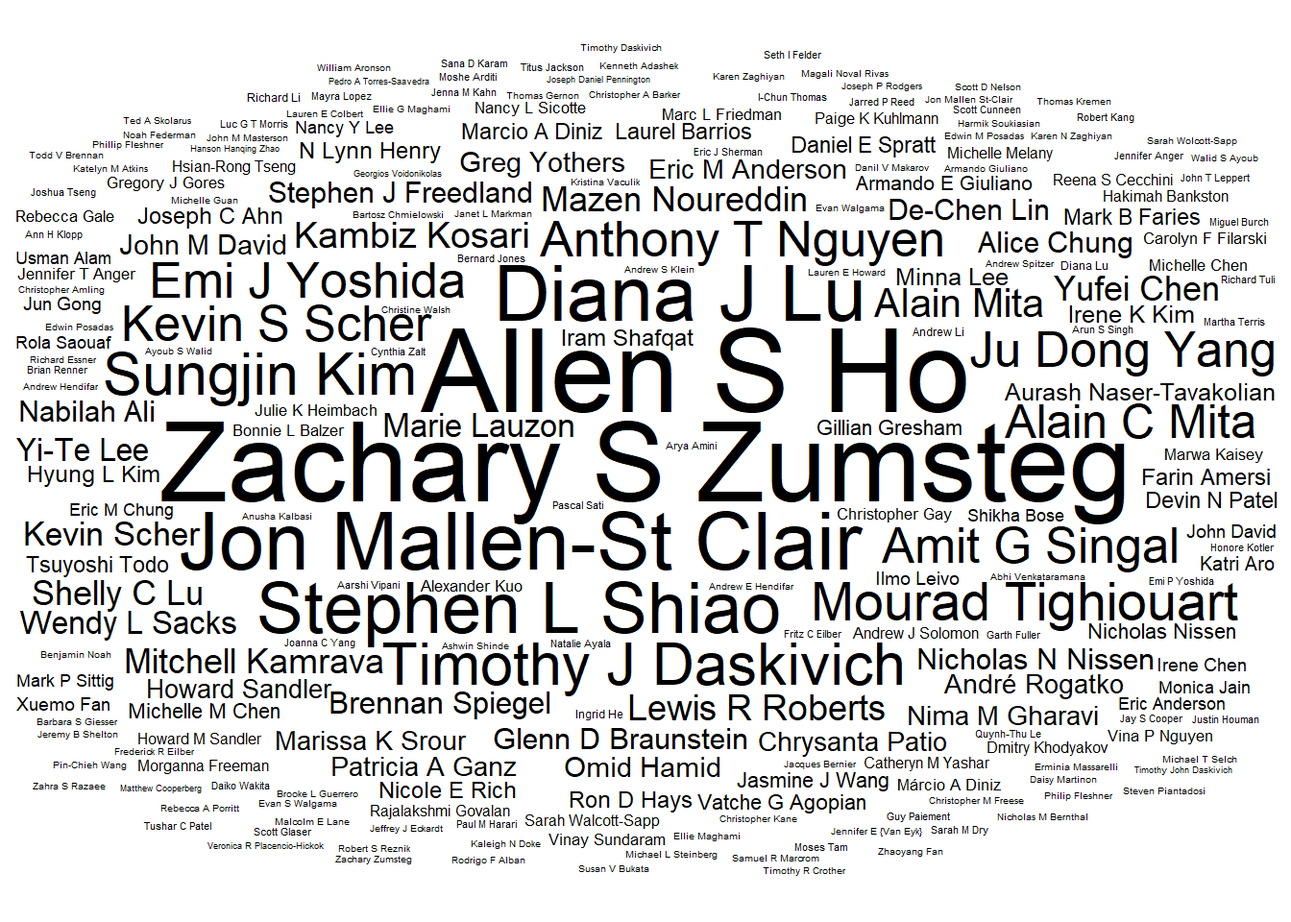
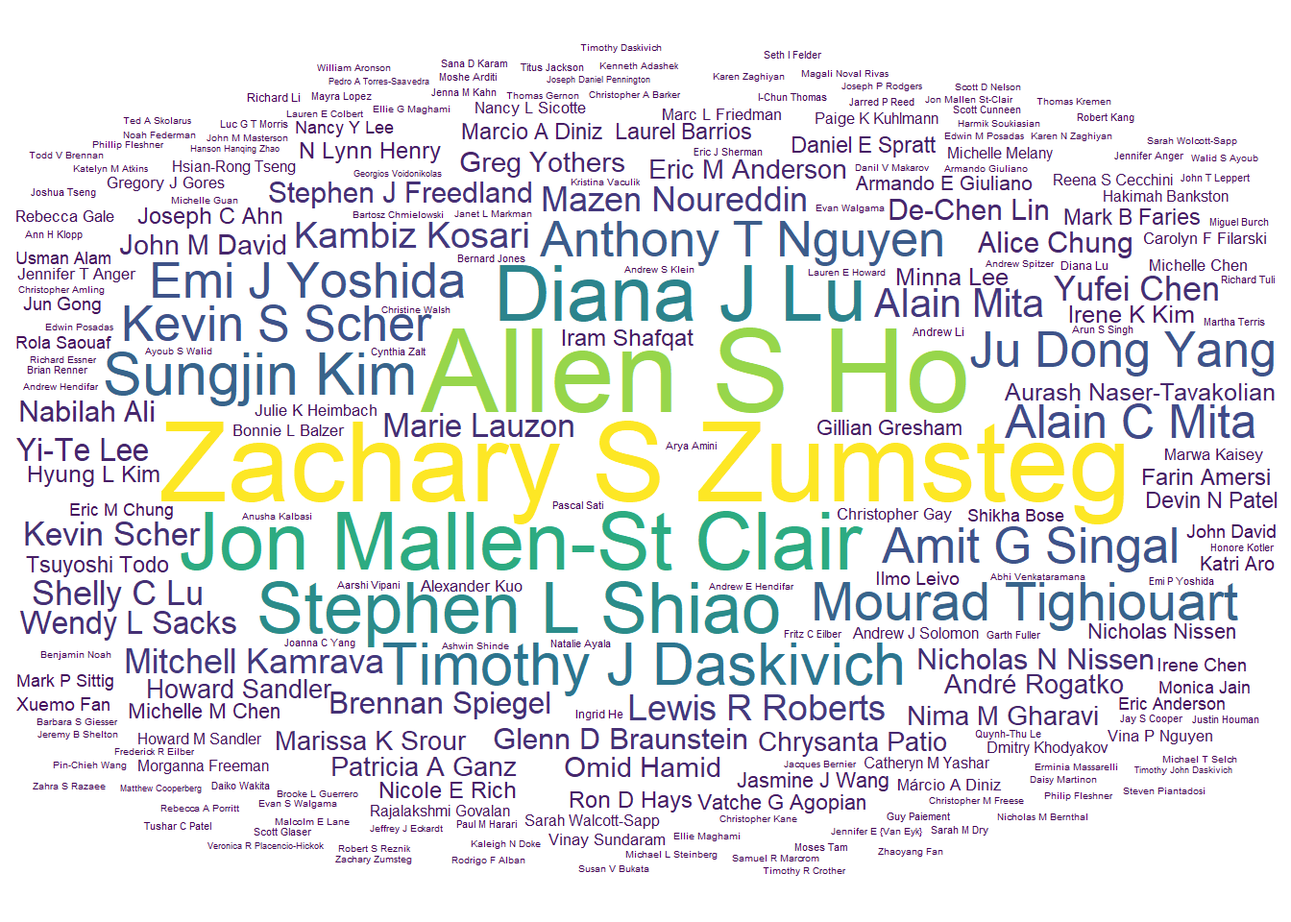
add some colors to the wordcloud blog

Changed region(s): [[0.0, 0.0312, 1.0, 0.9688], [0.5938, 0.0312, 0.625, 0.0625], [0.0312, 0.8438, 0.0625, 0.875]]

diff --git a/docs/publications.html b/docs/publications.html
@@ -158,8 +158,8 @@ ul.task-list li input[type="checkbox"] {
 <div class="cell page-columns page-full">
 <div class="cell-output-display column-screen-inset">
 
-<div class="datatables html-widget html-fill-item-overflow-hidden html-fill-item" id="htmlwidget-a7e6a7d2fcadc39f8a9f" style="width:100%;height:auto;"></div>
-<script type="application/json" data-for="htmlwidget-a7e6a7d2fcadc39f8a9f">{"x":{"style":"bootstrap4","filter":"top","vertical":false,"filterHTML":"<tr>\n  <td><\/td>\n  <td data-type=\"character\" style=\"vertical-align: top;\">\n    <div class=\"form-group has-feedback\" style=\"margin-bottom: auto;\">\n      <input type=\"search\" placeholder=\"All\" class=\"form-control\" style=\"width: 100%;\"/>\n      <span class=\"glyphicon glyphicon-remove-circle form-control-feedback\"><\/span>\n    <\/div>\n  <\/td>\n  <td data-type=\"character\" style=\"vertical-align: top;\">\n    <div class=\"form-group has-feedback\" style=\"margin-bottom: auto;\">\n      <input type=\"search\" placeholder=\"All\" class=\"form-control\" style=\"width: 100%;\"/>\n      <span class=\"glyphicon glyphicon-remove-circle form-control-feedback\"><\/span>\n    <\/div>\n  <\/td>\n  <td style=\"vertical-align: top;\">\n    <div class=\"form-group has-feedback\" style=\"margin-bottom: auto;\">\n      <input type=\"search\" placeholder=\"All\" class=\"form-control\" style=\"width: 100%;\"/>\n      <span class=\"glyphicon glyphicon-remove-circle form-control-feedback\"><\/span>\n    <\/div>\n  <\/td>\n  <td data-type=\"character\" style=\"vertical-align: top;\">\n    <div class=\"form-group has-feedback\" style=\"margin-bottom: auto;\">\n      <input type=\"search\" placeholder=\"All\" class=\"form-control\" style=\"width: 100%;\"/>\n      <span class=\"glyphicon glyphicon-remove-circle form-control-feedback\"><\/span>\n    <\/div>\n  <\/td>\n  <td data-type=\"character\" style=\"vertical-align: top;\">\n    <div class=\"form-group has-feedback\" style=\"margin-bottom: auto;\">\n      <input type=\"search\" placeholder=\"All\" class=\"form-control\" style=\"width: 100%;\"/>\n      <span class=\"glyphicon glyphicon-remove-circle form-control-feedback\"><\/span>\n    <\/div>\n  <\/td>\n  <td data-type=\"character\" style=\"vertical-align: top;\">\n    <div class=\"form-group has-feedback\" style=\"margin-bottom: auto;\">\n      <input type=\"search\" placeholder=\"All\" class=\"form-control\" style=\"width: 100%;\"/>\n      <span class=\"glyphicon glyphicon-remove-circle form-control-feedback\"><\/span>\n    <\/div>\n  <\/td>\n<\/tr>","data":[["1","2","3","4","5","6","7","8","9","10","11","12","13","14","15","16","17","18","19","20","21","22","23","24","25","26","27","28","29","30","31","32","33","34","35","36","37","38","39","40","41","42","43","44","45","46","47","48","49","50","51","52","53","54","55","56","57","58","59","60","61","62","63","64","65","66","67","68"],["April-2023","January-2023","November-2022","October-2022","August-2022","August-2022","July-2022","July-2022","May-2022","May-2022","April-2022","March-2022","January-2022","January-2022","December-2021","December-2021","November-2021","November-2021","November-2021","November-2021","October-2021","September-2021","September-2021","September-2021","September-2021","June-2021","May-2021","May-2021","April-2021","April-2021","April-2021","March-2021","February-2021","February-2021","February-2021","December-2020","November-2020","October-2020","October-2020","October-2020","September-2020","September-2020","August-2020","May-2020","March-2020","January-2020","January-2020","December-2019","November-2019","October-2019","October-2019","October-2019","September-2019","August-2019","June-2019","May-2019","April-2019","March-2019","February-2019","December-2018","November-2018","October-2018","August-2018","June-2018","May-2018","February-2018","December-2017","October-2017"],["The Laryngoscope","Prostate cancer and prostatic diseases","NPJ breast cancer","Cancer","The Laryngoscope","The Journal of urology","International journal of radiation oncology, biology, physics","Journal of the National Cancer Institute","Gynecologic oncology","Clinical gastroenterology and hepatology : the official clinical practice journal of the American Gastroenterological Association","Urologic oncology","The Journal of urology","JAMA surgery","Hepatology communications","Journal of clinical oncology : official journal of the American Society of Clinical Oncology","Urologic oncology","BMC medical research methodology","JAMA surgery","Hepatology (Baltimore, Md.)","Journal of the National Cancer Institute","Thyroid : official journal of the American Thyroid Association","Liver cancer","Head &amp; neck","Hepatology (Baltimore, Md.)","Prostate cancer and prostatic diseases","JAMA network open","Cancer","Surgery","Journal of nuclear medicine : official publication, Society of Nuclear Medicine","The breast journal","Head &amp; neck","Annals of surgical oncology","Multiple sclerosis and related disorders","Journal of the American Academy of Dermatology","Journal of the American Academy of Dermatology","Journal of the National Cancer Institute","Oral oncology","The American surgeon","Journal of medical Internet research","JAMA oncology","JAMA network open","Journal of the National Comprehensive Cancer Network : JNCCN","Journal of surgical oncology","JAMA oncology","Nature communications","Clinical otolaryngology : official journal of ENT-UK ; official journal of Netherlands Society for Oto-Rhino-Laryngology &amp; Cervico-Facial Surgery","Cancer","Oral oncology","European urology oncology","Thyroid : official journal of the American Thyroid Association","Annals of surgical oncology","Annals of surgical oncology","The Journal of urology","Brachytherapy","Otolaryngology--head and neck surgery : official journal of American Academy of Otolaryngology-Head and Neck Surgery","Multiple sclerosis and related disorders","Advances in radiation oncology","International journal of radiation oncology, biology, physics","JAMA network open","American journal of clinical oncology","European journal of cancer (Oxford, England : 1990)","Diseases of the colon and rectum","Cancer","Head &amp; neck","Journal of medical Internet research","International journal of radiation oncology, biology, physics","Cancer","Cancer"],[["<a href=https://doi.org/10.1002/lary.30481>In Response to Predicting Pathologic Lymph Node Positivity in cN0 Pharynx and Larynx Cancers<\/a>"],["<a href=https://doi.org/10.1038/s41391-022-00635-1>Concurrent prognostic utility of lymph node count and lymph node density for men with pathological node-positive prostate cancer<\/a>"],["<a href=https://doi.org/10.1038/s41523-022-00489-9>Toxicity Index, patient-reported outcomes, and persistence of breast cancer chemotherapy-associated side effects in NRG Oncology/NSABP B-30<\/a>"],["<a href=https://doi.org/10.1002/cncr.34436>Disparities in curative treatments and outcomes for early stage intrahepatic cholangiocarcinoma in the United States<\/a>"],["<a href=https://doi.org/10.1002/lary.30358>Predicting Pathologic Lymph Node Positivity in cN0 Pharynx and Larynx Cancers<\/a>"],["<a href=https://doi.org/10.1097/JU.0000000000002675>Variation in Communication of Competing Risks of Mortality in Prostate Cancer Treatment Consultations<\/a>"],["<a href=https://doi.org/10.1016/j.ijrobp.2022.03.033>Nodal Metastasis Count and Oncologic Outcomes in Head and Neck Cancer: A Secondary Analysis of NRG/RTOG 9501, NRG/RTOG 0234, and EORTC 22931<\/a>"],["<a href=https://doi.org/10.1093/jnci/djac059>Quantitative Nodal Burden and Mortality Across Solid Cancers<\/a>"],["<a href=https://doi.org/10.1016/j.ygyno.2022.01.016>Pathologic primary tumor factors associated with risk of lymph node involvement in patients with non-endometrioid endometrial cancer<\/a>"],["<a href=https://doi.org/10.1016/j.cgh.2021.08.011>Decreasing Trend of Serum α-Fetoprotein Level in Hepatocellular Carcinoma<\/a>"],["<a href=https://doi.org/10.1016/j.urolonc.2021.12.016>Predictors of disparity between targeted and in-zone systematic cores during transrectal MR/US-fusion prostate biopsy<\/a>"],["<a href=https://doi.org/10.1097/JU.0000000000002256>Development and Validation of an Improved Pathological Nodal Staging System in Men with Prostate Cancer<\/a>"],["<a href=https://doi.org/10.1001/jamasurg.2021.5803>Patient Preferences for Communication of Life Expectancy in Prostate Cancer Treatment Consultations<\/a>"],["<a href=https://doi.org/10.1002/hep4.1795>Therapeutic Underuse and Delay in Hepatocellular Carcinoma: Prevalence, Associated Factors, and Clinical Impact<\/a>"],["<a href=https://doi.org/10.1200/JCO.21.00910>Toxicity Index, Patient-Reported Outcomes, and Early Discontinuation of Endocrine Therapy for Breast Cancer Risk Reduction in NRG Oncology/NSABP B-35<\/a>"],["<a href=https://doi.org/10.1016/j.urolonc.2021.04.014>Outcomes with brachytherapy based dose escalation for gleason 8 versus 9-10 prostate cancer: An NCDB analysis<\/a>"],["<a href=https://doi.org/10.1186/s12874-021-01368-w>Visualizing adverse events in clinical trials using correspondence analysis with R-package visae<\/a>"],["<a href=https://doi.org/10.1001/jamasurg.2021.4298>Development and Validation of a Modified Pathologic Nodal Classification System for Cutaneous Melanoma<\/a>"],["<a href=https://doi.org/10.1002/hep.32007>Comparison of Clinical Features and Outcomes Between Intrahepatic Cholangiocarcinoma and Hepatocellular Carcinoma in the United States<\/a>"],["<a href=https://doi.org/10.1093/jnci/djab079>The Mortality and Overall Survival Trends of Primary Liver Cancer in the United States<\/a>"],["<a href=https://doi.org/10.1089/thy.2021.0131>Predictive Impact of Metastatic Lymph Node Burden on Distant Metastasis Across Papillary Thyroid Cancer Variants<\/a>"],["<a href=https://doi.org/10.1159/000515554>Comparison of Surgical Resection and Systemic Treatment for Hepatocellular Carcinoma with Vascular Invasion: National Cancer Database Analysis<\/a>"],["<a href=https://doi.org/10.1002/hed.26740>Factors predictive of 90-day mortality after surgical resection for oral cavity cancer: Development of a recursive partitioning analysis for risk stratification<\/a>"],["<a href=https://doi.org/10.1002/hep.31811>State-Level HCC Incidence and Association With Obesity and Physical Activity in the United States<\/a>"],["<a href=https://doi.org/10.1038/s41391-021-00330-7>Patient- and tumor-level risk factors for MRI-invisible prostate cancer<\/a>"],["<a href=https://doi.org/10.1001/jamanetworkopen.2021.12214>Time Trends in Use of Radical Prostatectomy by Tumor Risk and Life Expectancy in a National Veterans Affairs Cohort<\/a>"],["<a href=https://doi.org/10.1002/cncr.33414>Nodal staging convergence for HPV- and HPV+ oropharyngeal carcinoma<\/a>"],["<a href=https://doi.org/10.1016/j.surg.2020.11.023>Incidental parathyroidectomy in thyroidectomy and central neck dissection<\/a>"],["<a href=https://doi.org/10.2967/jnumed.121.261954>Transarterial radioembolization versus systemic treatment for hepatocellular carcinoma with macrovascular invasion: Analysis of the US National Cancer Database<\/a>"],["<a href=https://doi.org/10.1111/tbj.14172>Incidental radiologic findings in breast cancer patients who undergo staging prior to neo-adjuvant chemotherapy<\/a>"],["<a href=https://doi.org/10.1002/hed.26566>Variations in the association of grade with survival across the head and neck cancer landscape<\/a>"],["<a href=https://doi.org/10.1245/s10434-020-09023-2>Prognostic Impact of Histologic Grade for Papillary Thyroid Carcinoma<\/a>"],["<a href=https://doi.org/10.1016/j.msard.2020.102671>Preventing multiple sclerosis misdiagnosis using the \"central vein sign\": A real-world study<\/a>"],["<a href=https://doi.org/10.1016/j.jaad.2020.02.034>Improved survival in women versus men with merkel cell carcinoma<\/a>"],["<a href=https://doi.org/10.1016/j.jaad.2019.12.072>Quantitative metastatic lymph node burden and survival in Merkel cell carcinoma<\/a>"],["<a href=https://doi.org/10.1093/jnci/djaa028>Evaluating Treatment Tolerability in Cancer Clinical Trials Using the Toxicity Index<\/a>"],["<a href=https://doi.org/10.1016/j.oraloncology.2020.104882>The role of concomitant chemoradiotherapy in AJCC 7th edition T1-2N1 oropharyngeal carcinoma in the human papillomavirus era<\/a>"],["<a href=https://doi.org/10.1177/0003134820964209>Can Radiologic Tumor Size Following Neoadjuvant Therapy Reliably Guide Tissue Resection in Breast Conserving Surgery in Patients with Invasive Breast Cancer?<\/a>"],["<a href=https://doi.org/10.2196/11258>Correlation of Online Physician Rating Subscores and Association With Overall Satisfaction: Observational Study of 212,933 Providers<\/a>"],["<a href=https://doi.org/10.1001/jamaoncol.2020.3172>Comparison of Survival After Transoral Robotic Surgery vs Nonrobotic Surgery in Patients With Early-Stage Oropharyngeal Squamous Cell Carcinoma<\/a>"],["<a href=https://doi.org/10.1001/jamanetworkopen.2020.15083>Effect of Androgen Deprivation on Long-term Outcomes of Intermediate-Risk Prostate Cancer Stratified as Favorable or Unfavorable: A Secondary Analysis of the RTOG 9408 Randomized Clinical Trial<\/a>"],["<a href=https://doi.org/10.6004/jnccn.2020.7564>Factors Associated With Detection and Survival of T1 Hepatocellular Carcinoma in the United States: National Cancer Database Analysis<\/a>"],["<a href=https://doi.org/10.1002/jso.25931>The association between facility volume and overall survival in patients with Merkel cell carcinoma<\/a>"],["<a href=https://doi.org/10.1001/jamaoncol.2019.6851>Incidence and Mortality Risk Spectrum Across Aggressive Variants of Papillary Thyroid Carcinoma<\/a>"],["<a href=https://doi.org/10.1038/s41467-020-15397-4>Loss of testosterone impairs anti-tumor neutrophil function<\/a>"],["<a href=https://doi.org/10.1111/coa.13467>Impact of insurance on survival in patients < 65 with head & neck cancer treated with radiotherapy<\/a>"],["<a href=https://doi.org/10.1002/cncr.32501>Stage I HPV-positive oropharyngeal cancer: Should all patients receive similar treatments?<\/a>"],["<a href=https://doi.org/10.1016/j.oraloncology.2019.104472>Survival outcomes with concomitant chemoradiotherapy in older adults with oropharyngeal carcinoma in an era of increasing human papillomavirus (HPV) prevalence<\/a>"],["<a href=https://doi.org/10.1016/j.euo.2018.12.012>Development and Validation of an Improved Pathological Nodal Staging System for Urothelial Carcinoma of the Bladder<\/a>"],["<a href=https://doi.org/10.1089/thy.2019.0060>Mortality Risk of Nonoperative Papillary Thyroid Carcinoma: A Corollary for Active Surveillance<\/a>"],["<a href=https://doi.org/10.1245/s10434-019-07543-0>Overuse of Preoperative Staging of Patients Undergoing Neoadjuvant Chemotherapy for Breast Cancer<\/a>"],["<a href=https://doi.org/10.1245/s10434-019-07540-3>Patterns in the Use of Axillary Operations for Patients with Node-Positive Breast Cancer After Neoadjuvant Chemotherapy: A National Cancer Database (NCDB) Analysis<\/a>"],["<a href=https://doi.org/10.1097/JU.0000000000000287>External Validation of the Prostate Cancer Specific Comorbidity Index: A Claims Based Tool for the Prediction of Life Expectancy in Men with Prostate Cancer<\/a>"],["<a href=https://doi.org/10.1016/j.brachy.2019.07.003>An evaluation of gender diversity in the American Brachytherapy Society<\/a>"],["<a href=https://doi.org/10.1177/0194599819827851>Survival Impact of Adjuvant Therapy in Salivary Gland Cancers following Resection and Neck Dissection<\/a>"],["<a href=https://doi.org/10.1016/j.msard.2019.01.048>Incidence of multiple sclerosis misdiagnosis in referrals to two academic centers<\/a>"],["<a href=https://doi.org/10.1016/j.adro.2019.03.014>Palliative Radiation Therapy for Bone Metastases in Neuroendocrine Neoplasms<\/a>"],["<a href=https://doi.org/10.1016/j.ijrobp.2018.10.023>Brachytherapy Training Survey of Radiation Oncology Residents<\/a>"],["<a href=https://doi.org/10.1001/jamanetworkopen.2018.7673>Association of Wearable Activity Monitors With Assessment of Daily Ambulation and Length of Stay Among Patients Undergoing Major Surgery<\/a>"],["<a href=https://doi.org/10.1097/COC.0000000000000443>Long-term Outcomes With Ifosfamide-based Hypofractionated Preoperative Chemoradiotherapy for Extremity Soft Tissue Sarcomas<\/a>"],["<a href=https://doi.org/10.1016/j.ejca.2018.08.015>Human papillomavirus-associated oropharyngeal cancer among patients aged 70 and older: Dramatically increased prevalence and clinical implications<\/a>"],["<a href=https://doi.org/10.1097/DCR.0000000000001206>Early Urinary Catheter Removal Following Pelvic Colorectal Surgery: A Prospective, Randomized, Noninferiority Trial<\/a>"],["<a href=https://doi.org/10.1002/cncr.31535>Development of a novel salivary gland cancer lymph node staging system<\/a>"],["<a href=https://doi.org/10.1002/hed.25100>Postoperative chemoradiotherapy in patients with head and neck cancer aged 70 or older with positive margins or extranodal extension and the influence of nodal classification<\/a>"],["<a href=https://doi.org/10.2196/jmir.9160>Differences in Online Consumer Ratings of Health Care Providers Across Medical, Surgical, and Allied Health Specialties: Observational Study of 212,933 Providers<\/a>"],["<a href=https://doi.org/10.1016/j.ijrobp.2017.09.038>Facility Volume and Survival in Nasopharyngeal Carcinoma<\/a>"],["<a href=https://doi.org/10.1002/cncr.30933>Combined high-intensity local treatment and systemic therapy in metastatic head and neck squamous cell carcinoma: An analysis of the National Cancer Data Base<\/a>"],["<a href=https://doi.org/10.1002/cncr.30843>Treatment at high-volume facilities and academic centers is independently associated with improved survival in patients with locally advanced head and neck cancer<\/a>"]],["Eric Anderson","John M Masterson","N Lynn Henry","Yi-Te Lee","Eric M Anderson","Timothy J Daskivich","Diana J Lu","Anthony T Nguyen","Eric M Anderson","Aarshi Vipani","Paige K Kuhlmann","Timothy J Daskivich","Timothy J Daskivich","Rajalakshmi Govalan","N Lynn Henry","John David","Márcio A Diniz","Anthony T Nguyen","Yi-Te Lee","Yi-Te Lee","Allen S Ho","Rajalakshmi Govalan","Ashwin Shinde","Yi-Te Lee","Paige K Kuhlmann","Kristina Vaculik","Allen S Ho","Laurel Barrios","Joseph C Ahn","Marissa K Srour","Eric M Anderson","Allen S Ho","Marwa Kaisey","Moses Tam","Anthony T Nguyen","Gillian Gresham","Diana J Lu","Sarah Walcott-Sapp","Hanson Hanqing Zhao","Anthony T Nguyen","Zachary S Zumsteg","Ju Dong Yang","Emi J Yoshida","Allen S Ho","Janet L Markman","Mark P Sittig","Emi J Yoshida","Diana J Lu","Devin N Patel","Allen S Ho","Marissa K Srour","Marissa K Srour","Timothy J Daskivich","Diana J Lu","Katri Aro","Marwa Kaisey","Michelle Guan","Samuel R Marcrom","Timothy J Daskivich","Joseph Daniel Pennington","Diana J Lu","Devin N Patel","Katri Aro","Emi J Yoshida","Timothy Daskivich","Emi J Yoshida","Zachary S Zumsteg","John M David"],["Zachary S Zumsteg","Timothy J Daskivich","Patricia A Ganz","Ju Dong Yang","Zachary S Zumsteg","Stephen J Freedland","Zachary S Zumsteg","Zachary S Zumsteg","Mitchell Kamrava","Ju Dong Yang","Timothy J Daskivich","Zachary S Zumsteg","Brennan Spiegel","Ju Dong Yang","Patricia A Ganz","Mitchell Kamrava","André Rogatko","Zachary S Zumsteg","Ju Dong Yang","Ju Dong Yang","Zachary S Zumsteg","Ju Dong Yang","Arya Amini","Ju Dong Yang","Timothy J Daskivich","Timothy J Daskivich","Zachary S Zumsteg","Allen S Ho","Ju Dong Yang","Farin Amersi","Zachary S Zumsteg","Zachary S Zumsteg","Nancy L Sicotte","Zachary S Zumsteg","Zachary S Zumsteg","André Rogatko","Zachary S Zumsteg","Alice Chung","Timothy John Daskivich","Zachary S Zumsteg","Howard M Sandler","Jun Gong","Zachary S Zumsteg","Zachary S Zumsteg","Moshe Arditi","Zachary S Zumsteg","Zachary S Zumsteg","Zachary S Zumsteg","Timothy J Daskivich","Zachary S Zumsteg","Farin Amersi","Alice Chung","John T Leppert","Mitchell Kamrava","Zachary S Zumsteg","Nancy L Sicotte","Andrew E Hendifar","Mitchell Kamrava","Brennan Spiegel","Mitchell Kamrava","Zachary S Zumsteg","Phillip Fleshner","Zachary S Zumsteg","Zachary S Zumsteg","Brennan Spiegel","Zachary S Zumsteg","Allen S Ho","Zachary S Zumsteg"],["2/4","2/7","7/11","5/15","2/10","3/11","2/14","2/18","2/5","3/6","3/7","2/6","3/7","2/10","5/9","2/6","4/9","2/10","3/10","3/12","2/15","3/18","3/13","3/10","3/8","2/10","2/11","9/16","3/10","4/7","2/10","2/17","7/10","2/10","2/9","4/11","2/10","4/7","2/4","2/9","5/7","2/18","2/10","2/14","7/10","2/10","2/10","2/9","2/4","2/13","4/7","3/6","3/7","2/5","3/10","3/5","3/9","8/9","4/17","14/18","2/10","3/6","3/10","2/10","2/6","2/11","2/12","3/10"]],"container":"<table class=\"table table-condensed\">\n  <thead>\n    <tr>\n      <th> <\/th>\n      <th>Date<\/th>\n      <th>Journal<\/th>\n      <th>Title<\/th>\n      <th>First Author<\/th>\n      <th>Corresponding Author<\/th>\n      <th>Authorship Position<\/th>\n    <\/tr>\n  <\/thead>\n<\/table>","options":{"columnDefs":[{"orderable":false,"targets":0}],"order":[],"autoWidth":false,"orderClasses":false,"orderCellsTop":true}},"evals":[],"jsHooks":[]}</script>
+<div class="datatables html-widget html-fill-item-overflow-hidden html-fill-item" id="htmlwidget-148e62e013d4caaea9cd" style="width:100%;height:auto;"></div>
+<script type="application/json" data-for="htmlwidget-148e62e013d4caaea9cd">{"x":{"style":"bootstrap4","filter":"top","vertical":false,"filterHTML":"<tr>\n  <td><\/td>\n  <td data-type=\"character\" style=\"vertical-align: top;\">\n    <div class=\"form-group has-feedback\" style=\"margin-bottom: auto;\">\n      <input type=\"search\" placeholder=\"All\" class=\"form-control\" style=\"width: 100%;\"/>\n      <span class=\"glyphicon glyphicon-remove-circle form-control-feedback\"><\/span>\n    <\/div>\n  <\/td>\n  <td data-type=\"character\" style=\"vertical-align: top;\">\n    <div class=\"form-group has-feedback\" style=\"margin-bottom: auto;\">\n      <input type=\"search\" placeholder=\"All\" class=\"form-control\" style=\"width: 100%;\"/>\n      <span class=\"glyphicon glyphicon-remove-circle form-control-feedback\"><\/span>\n    <\/div>\n  <\/td>\n  <td style=\"vertical-align: top;\">\n    <div class=\"form-group has-feedback\" style=\"margin-bottom: auto;\">\n      <input type=\"search\" placeholder=\"All\" class=\"form-control\" style=\"width: 100%;\"/>\n      <span class=\"glyphicon glyphicon-remove-circle form-control-feedback\"><\/span>\n    <\/div>\n  <\/td>\n  <td data-type=\"character\" style=\"vertical-align: top;\">\n    <div class=\"form-group has-feedback\" style=\"margin-bottom: auto;\">\n      <input type=\"search\" placeholder=\"All\" class=\"form-control\" style=\"width: 100%;\"/>\n      <span class=\"glyphicon glyphicon-remove-circle form-control-feedback\"><\/span>\n    <\/div>\n  <\/td>\n  <td data-type=\"character\" style=\"vertical-align: top;\">\n    <div class=\"form-group has-feedback\" style=\"margin-bottom: auto;\">\n      <input type=\"search\" placeholder=\"All\" class=\"form-control\" style=\"width: 100%;\"/>\n      <span class=\"glyphicon glyphicon-remove-circle form-control-feedback\"><\/span>\n    <\/div>\n  <\/td>\n  <td data-type=\"character\" style=\"vertical-align: top;\">\n    <div class=\"form-group has-feedback\" style=\"margin-bottom: auto;\">\n      <input type=\"search\" placeholder=\"All\" class=\"form-control\" style=\"width: 100%;\"/>\n      <span class=\"glyphicon glyphicon-remove-circle form-control-feedback\"><\/span>\n    <\/div>\n  <\/td>\n<\/tr>","data":[["1","2","3","4","5","6","7","8","9","10","11","12","13","14","15","16","17","18","19","20","21","22","23","24","25","26","27","28","29","30","31","32","33","34","35","36","37","38","39","40","41","42","43","44","45","46","47","48","49","50","51","52","53","54","55","56","57","58","59","60","61","62","63","64","65","66","67","68"],["April-2023","January-2023","November-2022","October-2022","August-2022","August-2022","July-2022","July-2022","May-2022","May-2022","April-2022","March-2022","January-2022","January-2022","December-2021","December-2021","November-2021","November-2021","November-2021","November-2021","October-2021","September-2021","September-2021","September-2021","September-2021","June-2021","May-2021","May-2021","April-2021","April-2021","April-2021","March-2021","February-2021","February-2021","February-2021","December-2020","November-2020","October-2020","October-2020","October-2020","September-2020","September-2020","August-2020","May-2020","March-2020","January-2020","January-2020","December-2019","November-2019","October-2019","October-2019","October-2019","September-2019","August-2019","June-2019","May-2019","April-2019","March-2019","February-2019","December-2018","November-2018","October-2018","August-2018","June-2018","May-2018","February-2018","December-2017","October-2017"],["The Laryngoscope","Prostate cancer and prostatic diseases","NPJ breast cancer","Cancer","The Laryngoscope","The Journal of urology","International journal of radiation oncology, biology, physics","Journal of the National Cancer Institute","Gynecologic oncology","Clinical gastroenterology and hepatology : the official clinical practice journal of the American Gastroenterological Association","Urologic oncology","The Journal of urology","JAMA surgery","Hepatology communications","Journal of clinical oncology : official journal of the American Society of Clinical Oncology","Urologic oncology","BMC medical research methodology","JAMA surgery","Hepatology (Baltimore, Md.)","Journal of the National Cancer Institute","Thyroid : official journal of the American Thyroid Association","Liver cancer","Head &amp; neck","Hepatology (Baltimore, Md.)","Prostate cancer and prostatic diseases","JAMA network open","Cancer","Surgery","Journal of nuclear medicine : official publication, Society of Nuclear Medicine","The breast journal","Head &amp; neck","Annals of surgical oncology","Multiple sclerosis and related disorders","Journal of the American Academy of Dermatology","Journal of the American Academy of Dermatology","Journal of the National Cancer Institute","Oral oncology","The American surgeon","Journal of medical Internet research","JAMA oncology","JAMA network open","Journal of the National Comprehensive Cancer Network : JNCCN","Journal of surgical oncology","JAMA oncology","Nature communications","Clinical otolaryngology : official journal of ENT-UK ; official journal of Netherlands Society for Oto-Rhino-Laryngology &amp; Cervico-Facial Surgery","Cancer","Oral oncology","European urology oncology","Thyroid : official journal of the American Thyroid Association","Annals of surgical oncology","Annals of surgical oncology","The Journal of urology","Brachytherapy","Otolaryngology--head and neck surgery : official journal of American Academy of Otolaryngology-Head and Neck Surgery","Multiple sclerosis and related disorders","Advances in radiation oncology","International journal of radiation oncology, biology, physics","JAMA network open","American journal of clinical oncology","European journal of cancer (Oxford, England : 1990)","Diseases of the colon and rectum","Cancer","Head &amp; neck","Journal of medical Internet research","International journal of radiation oncology, biology, physics","Cancer","Cancer"],[["<a href=https://doi.org/10.1002/lary.30481>In Response to Predicting Pathologic Lymph Node Positivity in cN0 Pharynx and Larynx Cancers<\/a>"],["<a href=https://doi.org/10.1038/s41391-022-00635-1>Concurrent prognostic utility of lymph node count and lymph node density for men with pathological node-positive prostate cancer<\/a>"],["<a href=https://doi.org/10.1038/s41523-022-00489-9>Toxicity Index, patient-reported outcomes, and persistence of breast cancer chemotherapy-associated side effects in NRG Oncology/NSABP B-30<\/a>"],["<a href=https://doi.org/10.1002/cncr.34436>Disparities in curative treatments and outcomes for early stage intrahepatic cholangiocarcinoma in the United States<\/a>"],["<a href=https://doi.org/10.1002/lary.30358>Predicting Pathologic Lymph Node Positivity in cN0 Pharynx and Larynx Cancers<\/a>"],["<a href=https://doi.org/10.1097/JU.0000000000002675>Variation in Communication of Competing Risks of Mortality in Prostate Cancer Treatment Consultations<\/a>"],["<a href=https://doi.org/10.1016/j.ijrobp.2022.03.033>Nodal Metastasis Count and Oncologic Outcomes in Head and Neck Cancer: A Secondary Analysis of NRG/RTOG 9501, NRG/RTOG 0234, and EORTC 22931<\/a>"],["<a href=https://doi.org/10.1093/jnci/djac059>Quantitative Nodal Burden and Mortality Across Solid Cancers<\/a>"],["<a href=https://doi.org/10.1016/j.ygyno.2022.01.016>Pathologic primary tumor factors associated with risk of lymph node involvement in patients with non-endometrioid endometrial cancer<\/a>"],["<a href=https://doi.org/10.1016/j.cgh.2021.08.011>Decreasing Trend of Serum α-Fetoprotein Level in Hepatocellular Carcinoma<\/a>"],["<a href=https://doi.org/10.1016/j.urolonc.2021.12.016>Predictors of disparity between targeted and in-zone systematic cores during transrectal MR/US-fusion prostate biopsy<\/a>"],["<a href=https://doi.org/10.1097/JU.0000000000002256>Development and Validation of an Improved Pathological Nodal Staging System in Men with Prostate Cancer<\/a>"],["<a href=https://doi.org/10.1001/jamasurg.2021.5803>Patient Preferences for Communication of Life Expectancy in Prostate Cancer Treatment Consultations<\/a>"],["<a href=https://doi.org/10.1002/hep4.1795>Therapeutic Underuse and Delay in Hepatocellular Carcinoma: Prevalence, Associated Factors, and Clinical Impact<\/a>"],["<a href=https://doi.org/10.1200/JCO.21.00910>Toxicity Index, Patient-Reported Outcomes, and Early Discontinuation of Endocrine Therapy for Breast Cancer Risk Reduction in NRG Oncology/NSABP B-35<\/a>"],["<a href=https://doi.org/10.1016/j.urolonc.2021.04.014>Outcomes with brachytherapy based dose escalation for gleason 8 versus 9-10 prostate cancer: An NCDB analysis<\/a>"],["<a href=https://doi.org/10.1186/s12874-021-01368-w>Visualizing adverse events in clinical trials using correspondence analysis with R-package visae<\/a>"],["<a href=https://doi.org/10.1001/jamasurg.2021.4298>Development and Validation of a Modified Pathologic Nodal Classification System for Cutaneous Melanoma<\/a>"],["<a href=https://doi.org/10.1002/hep.32007>Comparison of Clinical Features and Outcomes Between Intrahepatic Cholangiocarcinoma and Hepatocellular Carcinoma in the United States<\/a>"],["<a href=https://doi.org/10.1093/jnci/djab079>The Mortality and Overall Survival Trends of Primary Liver Cancer in the United States<\/a>"],["<a href=https://doi.org/10.1089/thy.2021.0131>Predictive Impact of Metastatic Lymph Node Burden on Distant Metastasis Across Papillary Thyroid Cancer Variants<\/a>"],["<a href=https://doi.org/10.1159/000515554>Comparison of Surgical Resection and Systemic Treatment for Hepatocellular Carcinoma with Vascular Invasion: National Cancer Database Analysis<\/a>"],["<a href=https://doi.org/10.1002/hed.26740>Factors predictive of 90-day mortality after surgical resection for oral cavity cancer: Development of a recursive partitioning analysis for risk stratification<\/a>"],["<a href=https://doi.org/10.1002/hep.31811>State-Level HCC Incidence and Association With Obesity and Physical Activity in the United States<\/a>"],["<a href=https://doi.org/10.1038/s41391-021-00330-7>Patient- and tumor-level risk factors for MRI-invisible prostate cancer<\/a>"],["<a href=https://doi.org/10.1001/jamanetworkopen.2021.12214>Time Trends in Use of Radical Prostatectomy by Tumor Risk and Life Expectancy in a National Veterans Affairs Cohort<\/a>"],["<a href=https://doi.org/10.1002/cncr.33414>Nodal staging convergence for HPV- and HPV+ oropharyngeal carcinoma<\/a>"],["<a href=https://doi.org/10.1016/j.surg.2020.11.023>Incidental parathyroidectomy in thyroidectomy and central neck dissection<\/a>"],["<a href=https://doi.org/10.2967/jnumed.121.261954>Transarterial radioembolization versus systemic treatment for hepatocellular carcinoma with macrovascular invasion: Analysis of the US National Cancer Database<\/a>"],["<a href=https://doi.org/10.1111/tbj.14172>Incidental radiologic findings in breast cancer patients who undergo staging prior to neo-adjuvant chemotherapy<\/a>"],["<a href=https://doi.org/10.1002/hed.26566>Variations in the association of grade with survival across the head and neck cancer landscape<\/a>"],["<a href=https://doi.org/10.1245/s10434-020-09023-2>Prognostic Impact of Histologic Grade for Papillary Thyroid Carcinoma<\/a>"],["<a href=https://doi.org/10.1016/j.msard.2020.102671>Preventing multiple sclerosis misdiagnosis using the \"central vein sign\": A real-world study<\/a>"],["<a href=https://doi.org/10.1016/j.jaad.2020.02.034>Improved survival in women versus men with merkel cell carcinoma<\/a>"],["<a href=https://doi.org/10.1016/j.jaad.2019.12.072>Quantitative metastatic lymph node burden and survival in Merkel cell carcinoma<\/a>"],["<a href=https://doi.org/10.1093/jnci/djaa028>Evaluating Treatment Tolerability in Cancer Clinical Trials Using the Toxicity Index<\/a>"],["<a href=https://doi.org/10.1016/j.oraloncology.2020.104882>The role of concomitant chemoradiotherapy in AJCC 7th edition T1-2N1 oropharyngeal carcinoma in the human papillomavirus era<\/a>"],["<a href=https://doi.org/10.1177/0003134820964209>Can Radiologic Tumor Size Following Neoadjuvant Therapy Reliably Guide Tissue Resection in Breast Conserving Surgery in Patients with Invasive Breast Cancer?<\/a>"],["<a href=https://doi.org/10.2196/11258>Correlation of Online Physician Rating Subscores and Association With Overall Satisfaction: Observational Study of 212,933 Providers<\/a>"],["<a href=https://doi.org/10.1001/jamaoncol.2020.3172>Comparison of Survival After Transoral Robotic Surgery vs Nonrobotic Surgery in Patients With Early-Stage Oropharyngeal Squamous Cell Carcinoma<\/a>"],["<a href=https://doi.org/10.1001/jamanetworkopen.2020.15083>Effect of Androgen Deprivation on Long-term Outcomes of Intermediate-Risk Prostate Cancer Stratified as Favorable or Unfavorable: A Secondary Analysis of the RTOG 9408 Randomized Clinical Trial<\/a>"],["<a href=https://doi.org/10.6004/jnccn.2020.7564>Factors Associated With Detection and Survival of T1 Hepatocellular Carcinoma in the United States: National Cancer Database Analysis<\/a>"],["<a href=https://doi.org/10.1002/jso.25931>The association between facility volume and overall survival in patients with Merkel cell carcinoma<\/a>"],["<a href=https://doi.org/10.1001/jamaoncol.2019.6851>Incidence and Mortality Risk Spectrum Across Aggressive Variants of Papillary Thyroid Carcinoma<\/a>"],["<a href=https://doi.org/10.1038/s41467-020-15397-4>Loss of testosterone impairs anti-tumor neutrophil function<\/a>"],["<a href=https://doi.org/10.1111/coa.13467>Impact of insurance on survival in patients < 65 with head & neck cancer treated with radiotherapy<\/a>"],["<a href=https://doi.org/10.1002/cncr.32501>Stage I HPV-positive oropharyngeal cancer: Should all patients receive similar treatments?<\/a>"],["<a href=https://doi.org/10.1016/j.oraloncology.2019.104472>Survival outcomes with concomitant chemoradiotherapy in older adults with oropharyngeal carcinoma in an era of increasing human papillomavirus (HPV) prevalence<\/a>"],["<a href=https://doi.org/10.1016/j.euo.2018.12.012>Development and Validation of an Improved Pathological Nodal Staging System for Urothelial Carcinoma of the Bladder<\/a>"],["<a href=https://doi.org/10.1089/thy.2019.0060>Mortality Risk of Nonoperative Papillary Thyroid Carcinoma: A Corollary for Active Surveillance<\/a>"],["<a href=https://doi.org/10.1245/s10434-019-07543-0>Overuse of Preoperative Staging of Patients Undergoing Neoadjuvant Chemotherapy for Breast Cancer<\/a>"],["<a href=https://doi.org/10.1245/s10434-019-07540-3>Patterns in the Use of Axillary Operations for Patients with Node-Positive Breast Cancer After Neoadjuvant Chemotherapy: A National Cancer Database (NCDB) Analysis<\/a>"],["<a href=https://doi.org/10.1097/JU.0000000000000287>External Validation of the Prostate Cancer Specific Comorbidity Index: A Claims Based Tool for the Prediction of Life Expectancy in Men with Prostate Cancer<\/a>"],["<a href=https://doi.org/10.1016/j.brachy.2019.07.003>An evaluation of gender diversity in the American Brachytherapy Society<\/a>"],["<a href=https://doi.org/10.1177/0194599819827851>Survival Impact of Adjuvant Therapy in Salivary Gland Cancers following Resection and Neck Dissection<\/a>"],["<a href=https://doi.org/10.1016/j.msard.2019.01.048>Incidence of multiple sclerosis misdiagnosis in referrals to two academic centers<\/a>"],["<a href=https://doi.org/10.1016/j.adro.2019.03.014>Palliative Radiation Therapy for Bone Metastases in Neuroendocrine Neoplasms<\/a>"],["<a href=https://doi.org/10.1016/j.ijrobp.2018.10.023>Brachytherapy Training Survey of Radiation Oncology Residents<\/a>"],["<a href=https://doi.org/10.1001/jamanetworkopen.2018.7673>Association of Wearable Activity Monitors With Assessment of Daily Ambulation and Length of Stay Among Patients Undergoing Major Surgery<\/a>"],["<a href=https://doi.org/10.1097/COC.0000000000000443>Long-term Outcomes With Ifosfamide-based Hypofractionated Preoperative Chemoradiotherapy for Extremity Soft Tissue Sarcomas<\/a>"],["<a href=https://doi.org/10.1016/j.ejca.2018.08.015>Human papillomavirus-associated oropharyngeal cancer among patients aged 70 and older: Dramatically increased prevalence and clinical implications<\/a>"],["<a href=https://doi.org/10.1097/DCR.0000000000001206>Early Urinary Catheter Removal Following Pelvic Colorectal Surgery: A Prospective, Randomized, Noninferiority Trial<\/a>"],["<a href=https://doi.org/10.1002/cncr.31535>Development of a novel salivary gland cancer lymph node staging system<\/a>"],["<a href=https://doi.org/10.1002/hed.25100>Postoperative chemoradiotherapy in patients with head and neck cancer aged 70 or older with positive margins or extranodal extension and the influence of nodal classification<\/a>"],["<a href=https://doi.org/10.2196/jmir.9160>Differences in Online Consumer Ratings of Health Care Providers Across Medical, Surgical, and Allied Health Specialties: Observational Study of 212,933 Providers<\/a>"],["<a href=https://doi.org/10.1016/j.ijrobp.2017.09.038>Facility Volume and Survival in Nasopharyngeal Carcinoma<\/a>"],["<a href=https://doi.org/10.1002/cncr.30933>Combined high-intensity local treatment and systemic therapy in metastatic head and neck squamous cell carcinoma: An analysis of the National Cancer Data Base<\/a>"],["<a href=https://doi.org/10.1002/cncr.30843>Treatment at high-volume facilities and academic centers is independently associated with improved survival in patients with locally advanced head and neck cancer<\/a>"]],["Eric Anderson","John M Masterson","N Lynn Henry","Yi-Te Lee","Eric M Anderson","Timothy J Daskivich","Diana J Lu","Anthony T Nguyen","Eric M Anderson","Aarshi Vipani","Paige K Kuhlmann","Timothy J Daskivich","Timothy J Daskivich","Rajalakshmi Govalan","N Lynn Henry","John David","Márcio A Diniz","Anthony T Nguyen","Yi-Te Lee","Yi-Te Lee","Allen S Ho","Rajalakshmi Govalan","Ashwin Shinde","Yi-Te Lee","Paige K Kuhlmann","Kristina Vaculik","Allen S Ho","Laurel Barrios","Joseph C Ahn","Marissa K Srour","Eric M Anderson","Allen S Ho","Marwa Kaisey","Moses Tam","Anthony T Nguyen","Gillian Gresham","Diana J Lu","Sarah Walcott-Sapp","Hanson Hanqing Zhao","Anthony T Nguyen","Zachary S Zumsteg","Ju Dong Yang","Emi J Yoshida","Allen S Ho","Janet L Markman","Mark P Sittig","Emi J Yoshida","Diana J Lu","Devin N Patel","Allen S Ho","Marissa K Srour","Marissa K Srour","Timothy J Daskivich","Diana J Lu","Katri Aro","Marwa Kaisey","Michelle Guan","Samuel R Marcrom","Timothy J Daskivich","Joseph Daniel Pennington","Diana J Lu","Devin N Patel","Katri Aro","Emi J Yoshida","Timothy Daskivich","Emi J Yoshida","Zachary S Zumsteg","John M David"],["Zachary S Zumsteg","Timothy J Daskivich","Patricia A Ganz","Ju Dong Yang","Zachary S Zumsteg","Stephen J Freedland","Zachary S Zumsteg","Zachary S Zumsteg","Mitchell Kamrava","Ju Dong Yang","Timothy J Daskivich","Zachary S Zumsteg","Brennan Spiegel","Ju Dong Yang","Patricia A Ganz","Mitchell Kamrava","André Rogatko","Zachary S Zumsteg","Ju Dong Yang","Ju Dong Yang","Zachary S Zumsteg","Ju Dong Yang","Arya Amini","Ju Dong Yang","Timothy J Daskivich","Timothy J Daskivich","Zachary S Zumsteg","Allen S Ho","Ju Dong Yang","Farin Amersi","Zachary S Zumsteg","Zachary S Zumsteg","Nancy L Sicotte","Zachary S Zumsteg","Zachary S Zumsteg","André Rogatko","Zachary S Zumsteg","Alice Chung","Timothy John Daskivich","Zachary S Zumsteg","Howard M Sandler","Jun Gong","Zachary S Zumsteg","Zachary S Zumsteg","Moshe Arditi","Zachary S Zumsteg","Zachary S Zumsteg","Zachary S Zumsteg","Timothy J Daskivich","Zachary S Zumsteg","Farin Amersi","Alice Chung","John T Leppert","Mitchell Kamrava","Zachary S Zumsteg","Nancy L Sicotte","Andrew E Hendifar","Mitchell Kamrava","Brennan Spiegel","Mitchell Kamrava","Zachary S Zumsteg","Phillip Fleshner","Zachary S Zumsteg","Zachary S Zumsteg","Brennan Spiegel","Zachary S Zumsteg","Allen S Ho","Zachary S Zumsteg"],["2/4","2/7","7/11","5/15","2/10","3/11","2/14","2/18","2/5","3/6","3/7","2/6","3/7","2/10","5/9","2/6","4/9","2/10","3/10","3/12","2/15","3/18","3/13","3/10","3/8","2/10","2/11","9/16","3/10","4/7","2/10","2/17","7/10","2/10","2/9","4/11","2/10","4/7","2/4","2/9","5/7","2/18","2/10","2/14","7/10","2/10","2/10","2/9","2/4","2/13","4/7","3/6","3/7","2/5","3/10","3/5","3/9","8/9","4/17","14/18","2/10","3/6","3/10","2/10","2/6","2/11","2/12","3/10"]],"container":"<table class=\"table table-condensed\">\n  <thead>\n    <tr>\n      <th> <\/th>\n      <th>Date<\/th>\n      <th>Journal<\/th>\n      <th>Title<\/th>\n      <th>First Author<\/th>\n      <th>Corresponding Author<\/th>\n      <th>Authorship Position<\/th>\n    <\/tr>\n  <\/thead>\n<\/table>","options":{"columnDefs":[{"orderable":false,"targets":0}],"order":[],"autoWidth":false,"orderClasses":false,"orderCellsTop":true}},"evals":[],"jsHooks":[]}</script>
 </div>
 </div>
 

diff --git a/docs/posts/retrieve-pubmed-publications/index.html b/docs/posts/retrieve-pubmed-publications/index.html
@@ -256,10 +256,11 @@ $ pages      &lt;chr&gt; NA, "123", "E25", NA, "3610-3619", "787-795", "301-308"
 <span id="cb5-14"><a href="#cb5-14" aria-hidden="true" tabindex="-1"></a>  <span class="fu">filter</span>(value <span class="sc">!=</span> <span class="st">'Michael Luu'</span>)</span>
 <span id="cb5-15"><a href="#cb5-15" aria-hidden="true" tabindex="-1"></a></span>
 <span id="cb5-16"><a href="#cb5-16" aria-hidden="true" tabindex="-1"></a><span class="fu">set.seed</span>(<span class="dv">1</span>)</span>
-<span id="cb5-17"><a href="#cb5-17" aria-hidden="true" tabindex="-1"></a><span class="fu">ggplot</span>(plot_data, <span class="fu">aes</span>(<span class="at">label =</span> value, <span class="at">size =</span> n)) <span class="sc">+</span></span>
+<span id="cb5-17"><a href="#cb5-17" aria-hidden="true" tabindex="-1"></a><span class="fu">ggplot</span>(plot_data, <span class="fu">aes</span>(<span class="at">label =</span> value, <span class="at">size =</span> n, <span class="at">color =</span> n)) <span class="sc">+</span></span>
 <span id="cb5-18"><a href="#cb5-18" aria-hidden="true" tabindex="-1"></a>  <span class="fu">geom_text_wordcloud_area</span>() <span class="sc">+</span></span>
 <span id="cb5-19"><a href="#cb5-19" aria-hidden="true" tabindex="-1"></a>  <span class="fu">scale_size_area</span>(<span class="at">max_size =</span> <span class="dv">16</span>) <span class="sc">+</span></span>
-<span id="cb5-20"><a href="#cb5-20" aria-hidden="true" tabindex="-1"></a>  <span class="fu">theme_minimal</span>()</span></code><button title="Copy to Clipboard" class="code-copy-button"><i class="bi"></i></button></pre></div>
+<span id="cb5-20"><a href="#cb5-20" aria-hidden="true" tabindex="-1"></a>  <span class="fu">theme_minimal</span>() <span class="sc">+</span></span>
+<span id="cb5-21"><a href="#cb5-21" aria-hidden="true" tabindex="-1"></a>  <span class="fu">scale_color_viridis_c</span>()</span></code><button title="Copy to Clipboard" class="code-copy-button"><i class="bi"></i></button></pre></div>
 <div class="cell-output-display">
 <p><img src="index_files/figure-html/unnamed-chunk-3-1.png" class="quarto-discovered-preview-image img-fluid" style="width:100.0%"></p>
 </div>
@@ -292,17 +293,17 @@ other attached packages:
 
 loaded via a namespace (and not attached):
  [1] tidyselect_1.2.0  xfun_0.38         colorspace_2.1-0  vctrs_0.6.1      
- [5] generics_0.1.3    htmltools_0.5.4   yaml_2.3.6        utf8_1.2.3       
- [9] rlang_1.1.0       pillar_1.9.0      glue_1.6.2        withr_2.5.0      
-[13] lifecycle_1.0.3   plyr_1.8.8        munsell_0.5.0     gtable_0.3.3     
-[17] htmlwidgets_1.6.2 evaluate_0.19     labeling_0.4.2    knitr_1.41       
-[21] tzdb_0.3.0        fastmap_1.1.0     curl_5.0.0        fansi_1.0.4      
-[25] Rcpp_1.0.10       renv_0.16.0       scales_1.2.1      backports_1.4.1  
-[29] jsonlite_1.8.4    farver_2.1.1      hms_1.1.3         png_0.1-8        
-[33] digest_0.6.31     stringi_1.7.8     grid_4.2.2        bibtex_0.5.1     
-[37] cli_3.6.1         tools_4.2.2       magrittr_2.0.3    pkgconfig_2.0.3  
-[41] xml2_1.3.3        timechange_0.2.0  rmarkdown_2.19    httr_1.4.5       
-[45] rstudioapi_0.14   R6_2.5.1          compiler_4.2.2   </code></pre>
+ [5] generics_0.1.3    viridisLite_0.4.1 htmltools_0.5.4   yaml_2.3.6       
+ [9] utf8_1.2.3        rlang_1.1.0       pillar_1.9.0      glue_1.6.2       
+[13] withr_2.5.0       lifecycle_1.0.3   plyr_1.8.8        munsell_0.5.0    
+[17] gtable_0.3.3      htmlwidgets_1.6.2 evaluate_0.19     labeling_0.4.2   
+[21] knitr_1.41        tzdb_0.3.0        fastmap_1.1.0     curl_5.0.0       
+[25] fansi_1.0.4       Rcpp_1.0.10       renv_0.16.0       scales_1.2.1     
+[29] backports_1.4.1   jsonlite_1.8.4    farver_2.1.1      hms_1.1.3        
+[33] png_0.1-8         digest_0.6.31     stringi_1.7.8     grid_4.2.2       
+[37] bibtex_0.5.1      cli_3.6.1         tools_4.2.2       magrittr_2.0.3   
+[41] pkgconfig_2.0.3   xml2_1.3.3        timechange_0.2.0  rmarkdown_2.19   
+[45] httr_1.4.5        rstudioapi_0.14   R6_2.5.1          compiler_4.2.2   </code></pre>
 </div>
 </div>
 

diff --git a/docs/blog.html b/docs/blog.html
@@ -203,7 +203,7 @@ Michael Luu
 </a>
 </div>
 </div>
-<div class="quarto-post image-right" data-index="1" data-listing-date-sort="1681369200000" data-listing-file-modified-sort="1681421125171" data-listing-date-modified-sort="1681369200000" data-listing-reading-time-sort="2">
+<div class="quarto-post image-right" data-index="1" data-listing-date-sort="1681369200000" data-listing-file-modified-sort="1681421494026" data-listing-date-modified-sort="1681369200000" data-listing-reading-time-sort="2">
 <div class="thumbnail">
 <p><a href="./posts/retrieve-pubmed-publications/index.html"> <img src="posts\retrieve-pubmed-publications\index_files\figure-html\unnamed-chunk-3-1.png" /> </a></p>
 </div>
